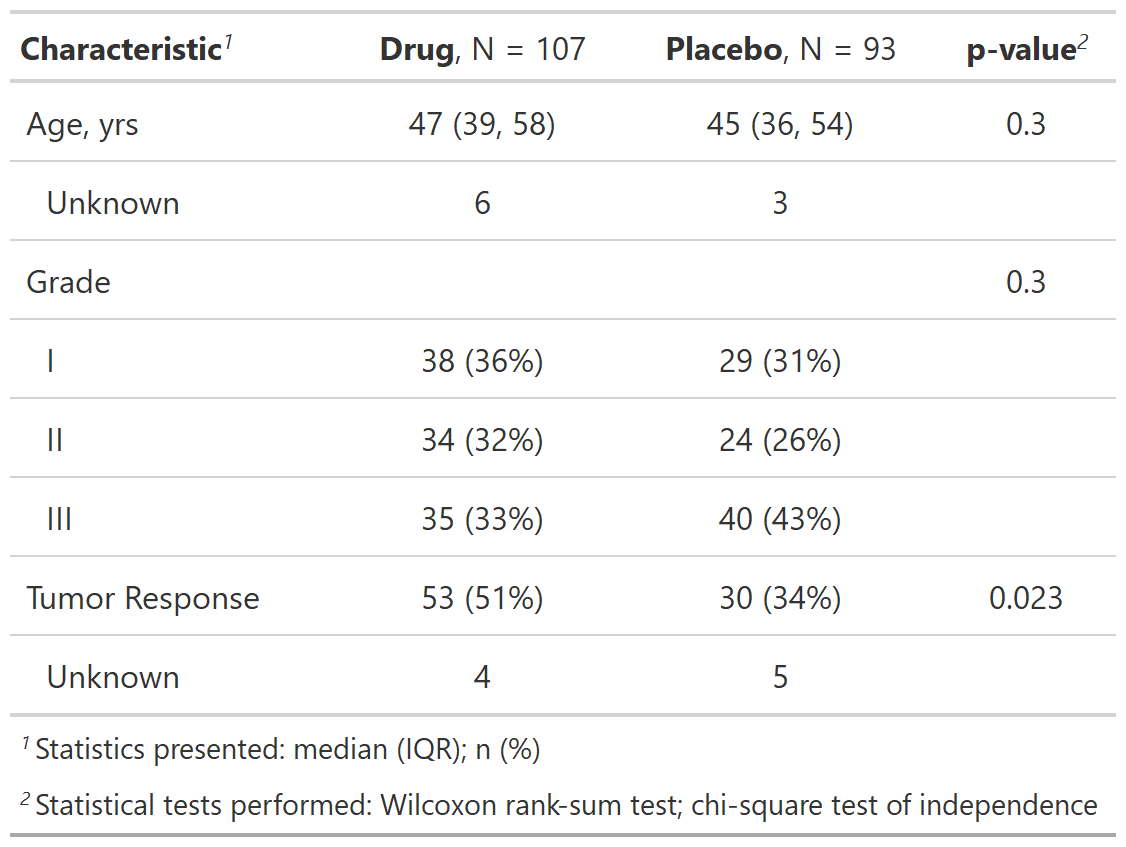
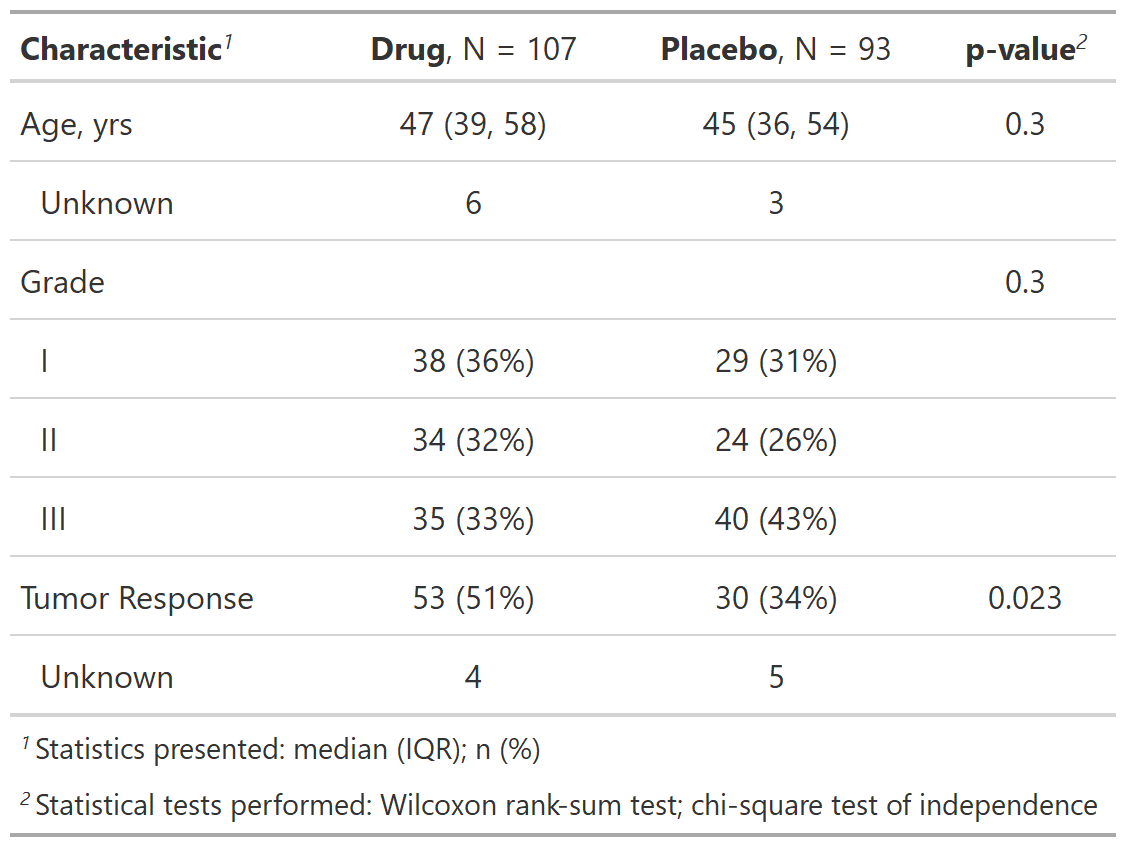
updates

diff --git a/cran-comments.md b/cran-comments.md
@@ -5,16 +5,18 @@
 * win-builder devel, release, oldrel
 
 ## R CMD check results
-> checking CRAN incoming feasibility ... NOTE
   Maintainer: 'Daniel D. Sjoberg <danield.sjoberg@gmail.com>'
-  
   Suggests or Enhances not in mainstream repositories:
     gt
-
-0 errors √ | 0 warnings √ | 1 note x
+  Package which this enhances but not available for checking: 'gt'
 
 ## Additional Comments
 
+Submission 2 gtsummary v1.2.2:
+Thank you for the review.
+The previously listed NOTE about a potential broken link has been resolved.
+
+Submission 1 gtsummary v1.2.2:
 Thank you for reviewing this update to my package.
 The package lists the gt package in the Enhances field. 
 The gt package is not available on CRAN, and can be installed from GitHub (rstudio/gt). 

diff --git a/README.md b/README.md
@@ -99,7 +99,7 @@ t2 <- tbl_regression(mod1, exponentiate = TRUE)
 
 Side-by-side regression model results from `tbl_merge()`
 
-<img src="man/figures/tbl_merge_ex.png" width="66%">
+<img src="man/figures/tbl_merge_ex1.png" width="66%">
 
 Survival Estimates from `tbl_survival()`
 
